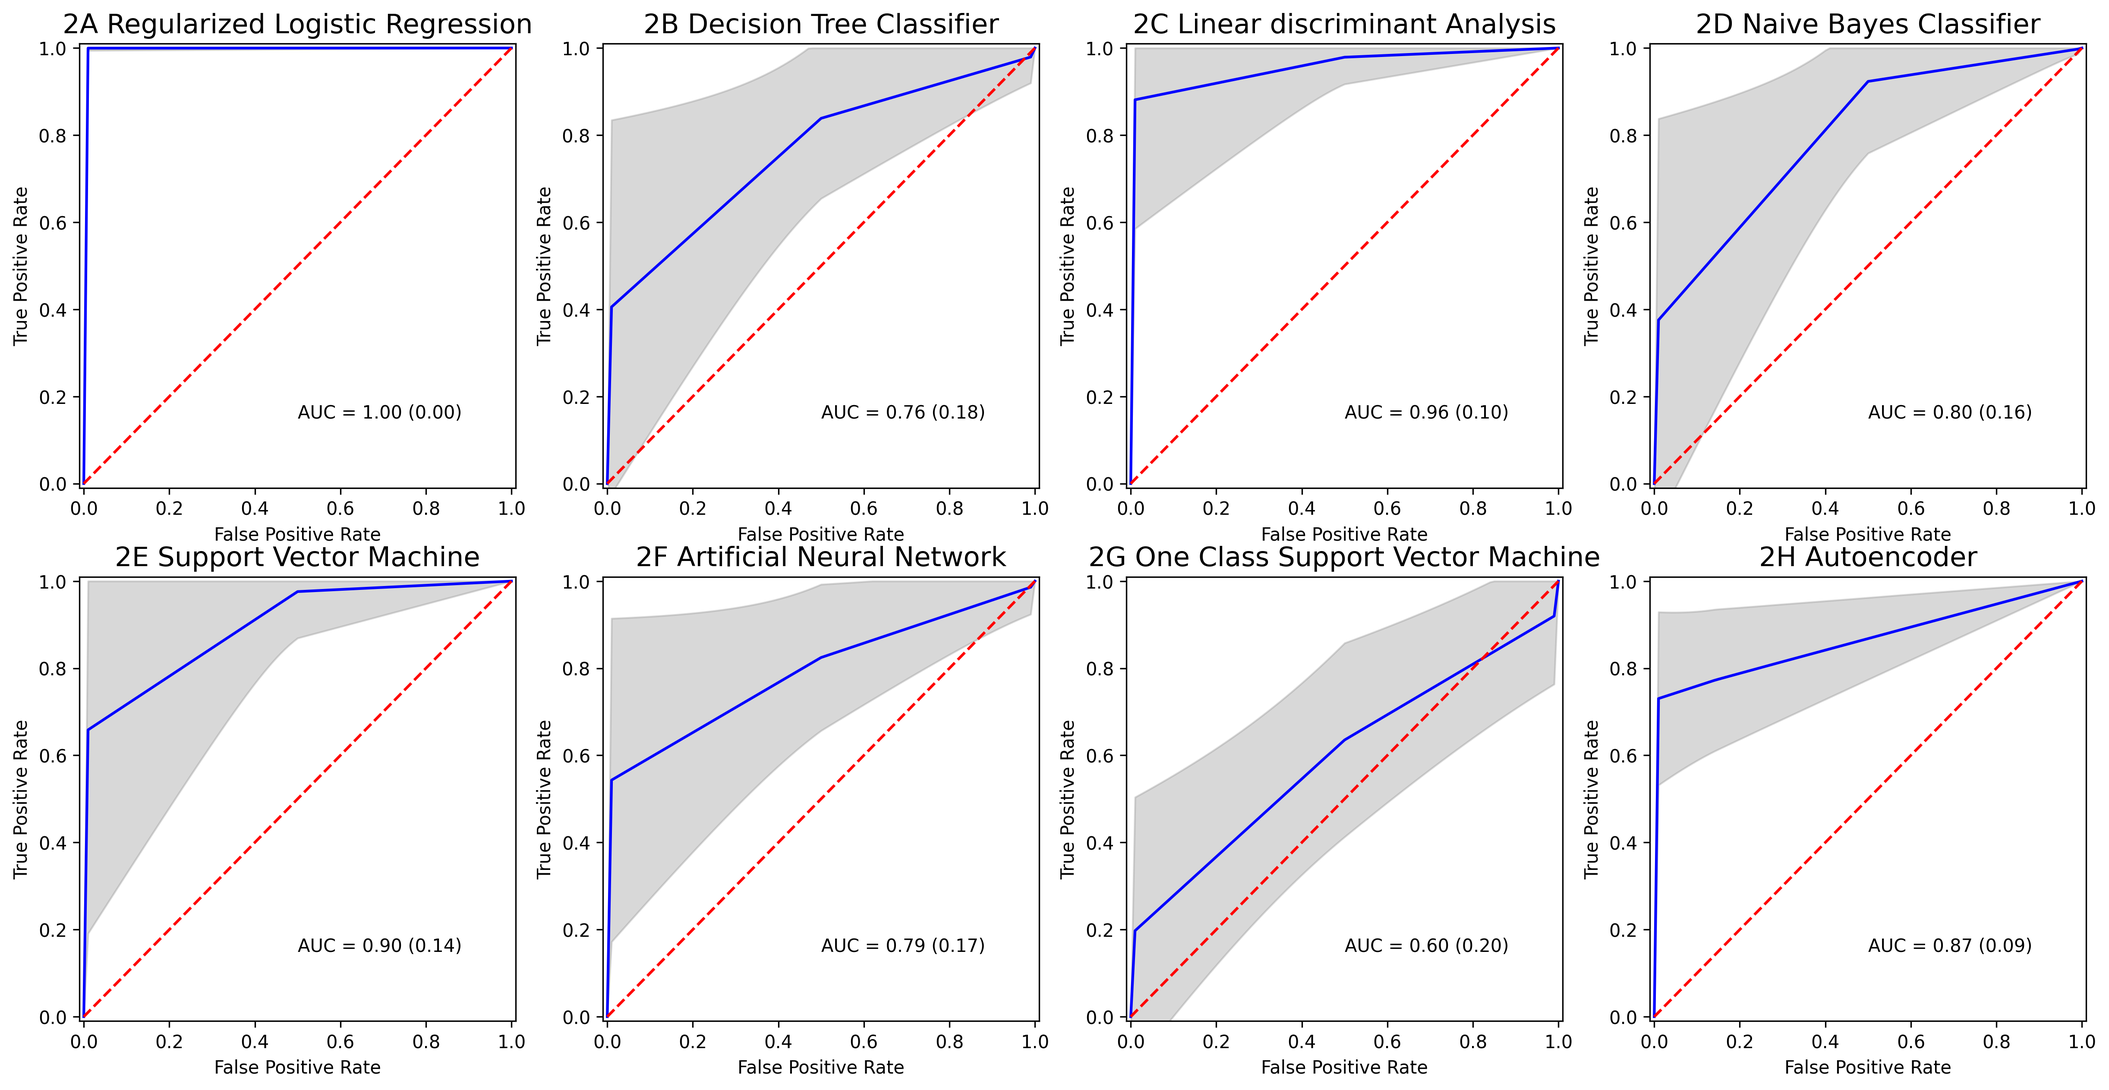
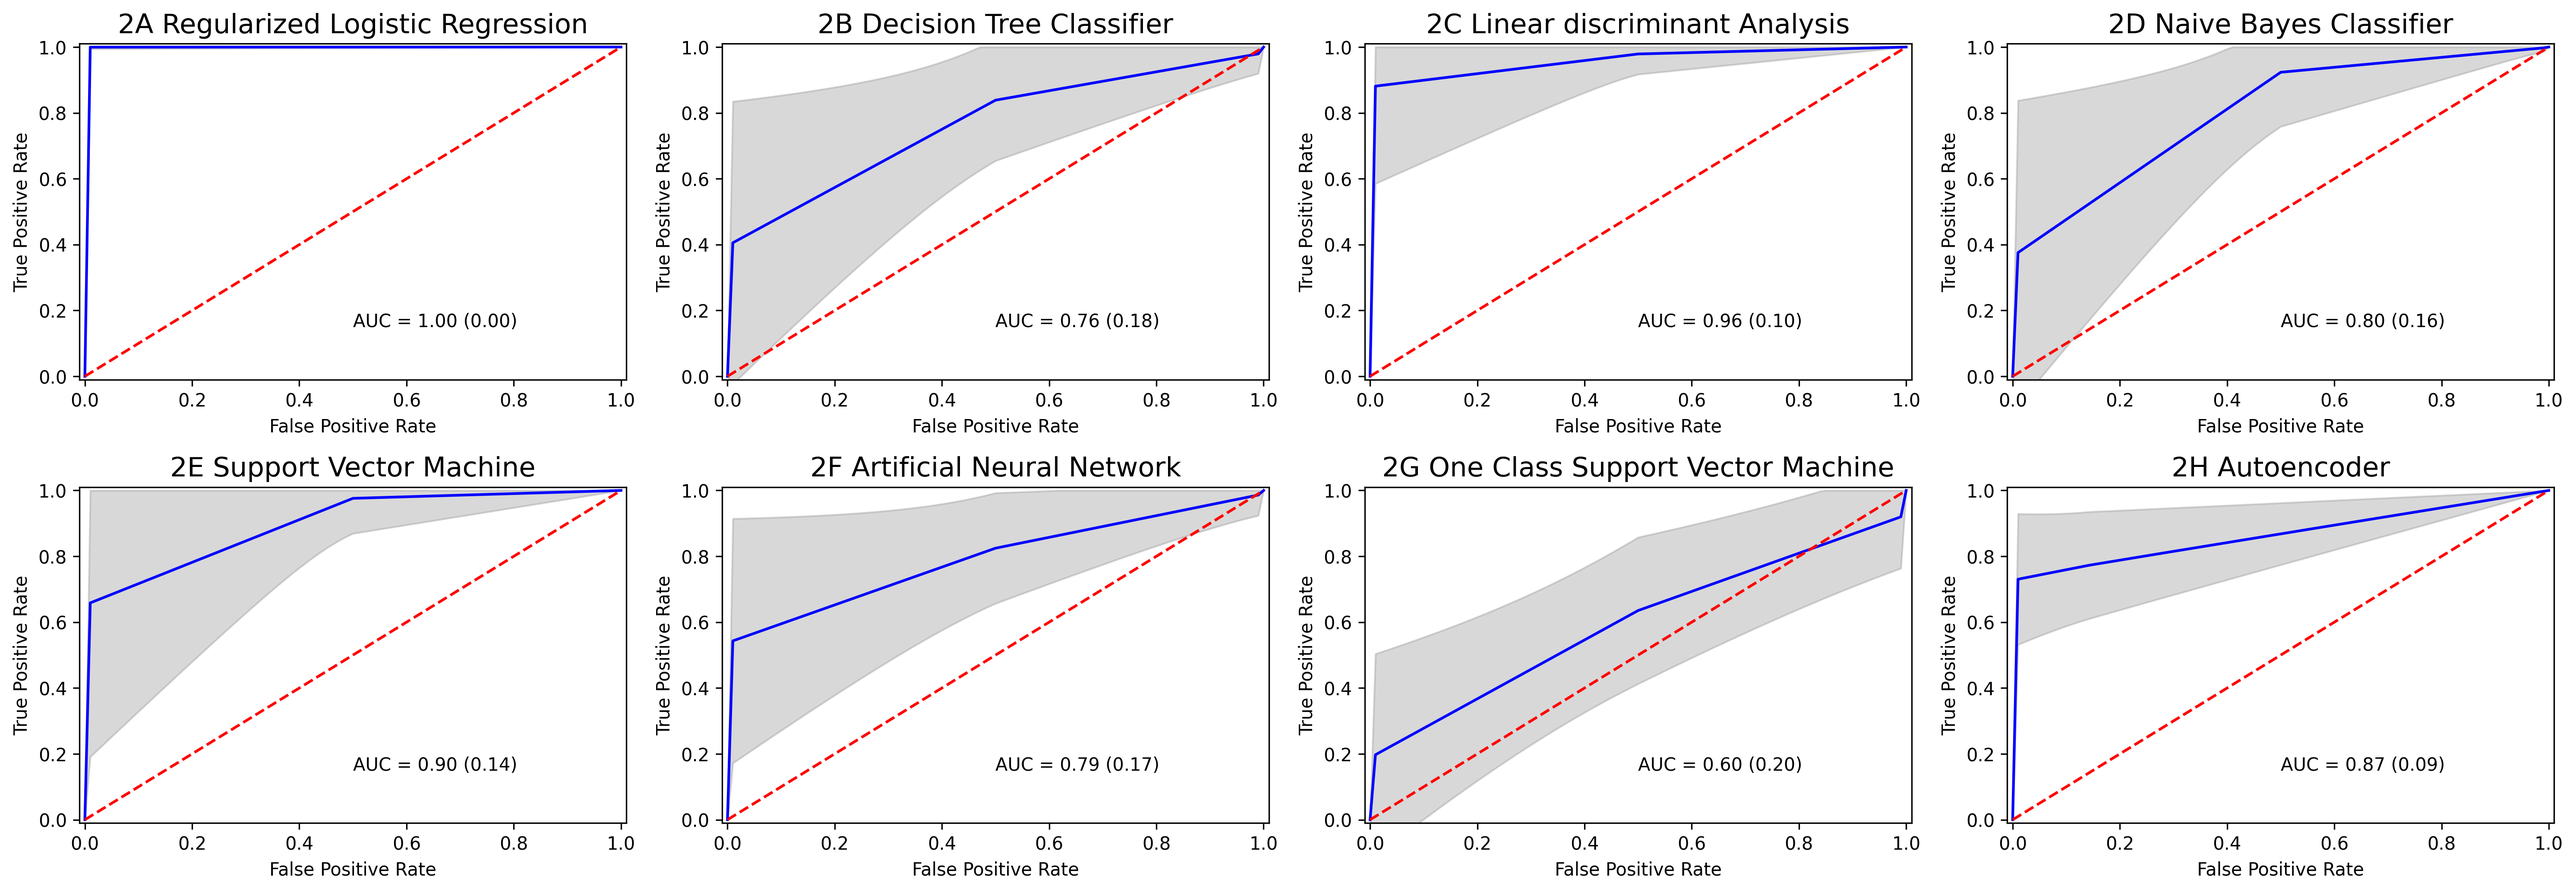
ROC update

diff --git a/Fig4_ROC.py b/Fig4_ROC.py
@@ -10,7 +10,7 @@ from statistics import stdev
 import os
 
 #Select 5, 10 or 20
-number_of_features = 5
+number_of_features = 20
 base_fpr = np.linspace(0, 1, 101)
 datadir = "data"
 accs = np.load(os.path.join(datadir, str(number_of_features), "ACC.npy"))
@@ -41,7 +41,7 @@ def DBS_outcome_prediction_accuracy(res_acc, res_sens, res_spec, res_AUC, tprs, 
     axis.text(x = 0.5, y = 0.15, s="AUC = %4.2f (%4.2f)" % (sum(res_AUC)/len(res_AUC), stdev(res_AUC)))
     axis.set_title(name, fontsize=15)
 
-fig, axes = plt.subplots(2,4, figsize=(20, 10))
+fig, axes = plt.subplots(2,4, figsize=(20, 7))
 axes = axes.ravel()
 
 if number_of_features == 5:
@@ -65,6 +65,8 @@ else:
 print("Accuracy %  Sensitivity %  Specificity %  AUC")
 for i, el in enumerate(list([0, 1, 2, 3, 4, 5, 6, 7])):
     DBS_outcome_prediction_accuracy( accs[el], sens[el], spes[el], aucs[el], tprs[el], axes[i], names[el])
+
+plt.tight_layout()
 
 figpath = os.path.join("figures", "Fig4_ROC_"+str(number_of_features)+"_features.png")
 fig.savefig(figpath, dpi=300, bbox_inches='tight', format='png')
